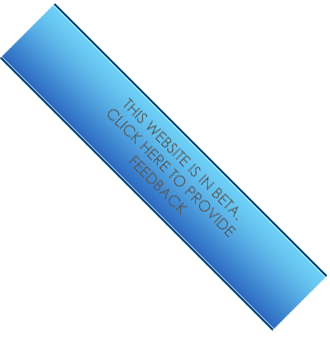
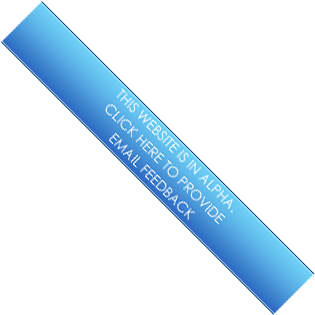
Same as before
Just some edits in language.

Changed region(s): [[0.0, 0.0, 1.0, 1.0]]

diff --git a/themes/bc/templates/base.html b/themes/bc/templates/base.html
@@ -35,7 +35,7 @@
 <body id="index" class="s-lg-guide-body mainhomepage">
 
 <!--TEMPORARY RIBBON TO DENOTE BETA-NESS -->
-<a href="#" style=""><img src="http://libsite.dev/theme/img/BetaRibbon.png" style="position: absolute; top: -70px; right: -70px; z-index: 99999;"></a>
+<a href="mailto:houstonp@bc.edu,benjamin.florin@bc.edu,kevin.kidd@bc.edu,jesse.martinez@bc.edu>?subject=Website Alpha Feedback" style=""><img src="http://libsite.dev/theme/img/BetaRibbon.png" style="position: absolute; top: -70px; right: -70px; z-index: 99999;"></a>
 
 <div id="header">
 
